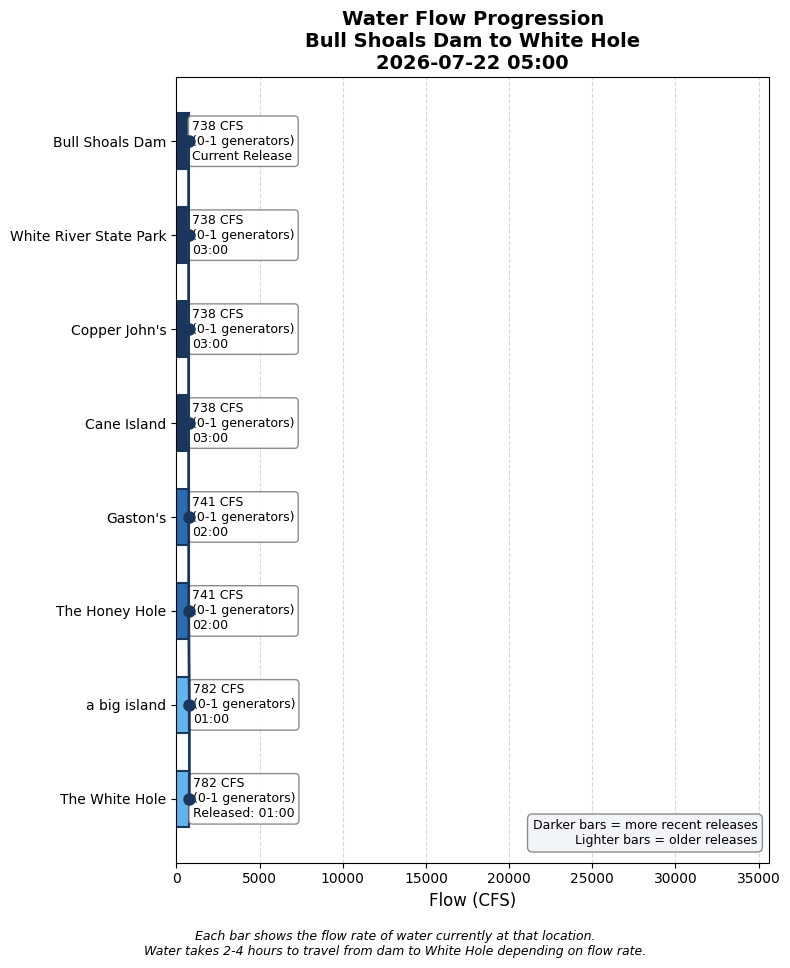
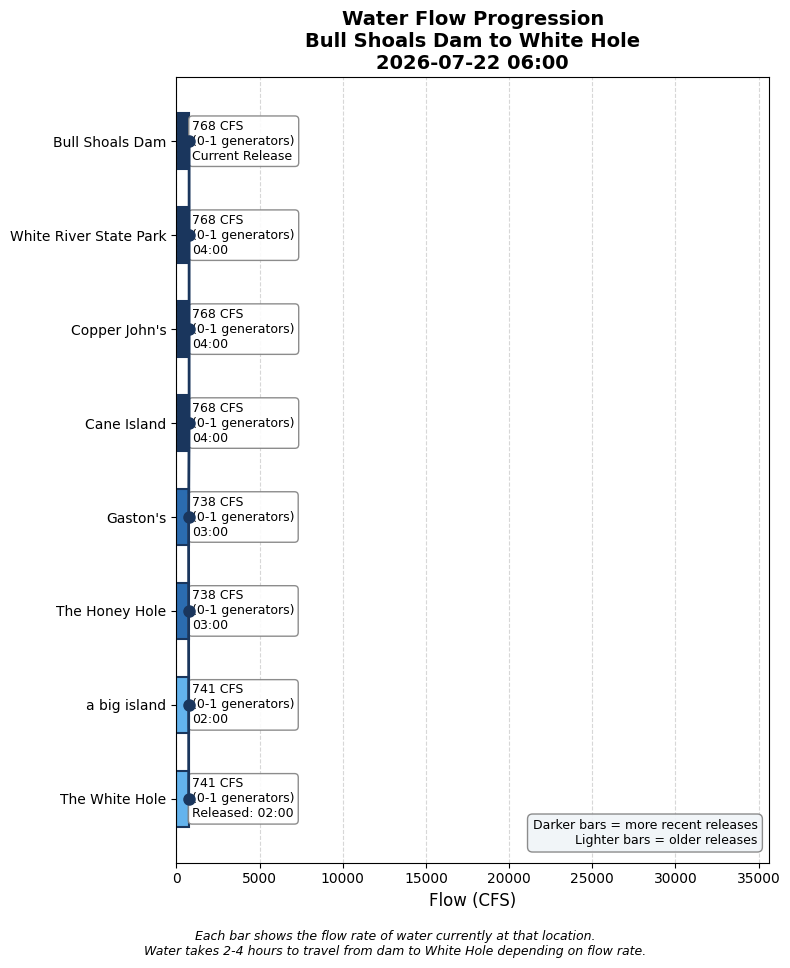
Update water conditions 2026-07-22 06:00

diff --git a/white_hole_conditions.html b/white_hole_conditions.html
@@ -3,7 +3,7 @@
 <head>
     <meta charset="UTF-8">
     <meta name="viewport" content="width=device-width, initial-scale=1.0">
-    <title>White Hole Conditions - 2026-07-22 05:00</title>
+    <title>White Hole Conditions - 2026-07-22 06:00</title>
     <style>
         body {
             font-family: -apple-system, BlinkMacSystemFont, 'Segoe UI', Roboto, sans-serif;
@@ -148,7 +148,7 @@
 </head>
 <body>
     <h1>White Hole Current Conditions</h1>
-    <p class="subtitle">Wednesday, July 22, 2026 at 05:00 AM</p>
+    <p class="subtitle">Wednesday, July 22, 2026 at 06:00 AM</p>
 
     <!-- HEADLINE BANNER -->
     <div class="headline-banner">
@@ -160,7 +160,7 @@
     <!-- CURRENT CONDITIONS -->
     <div class="current-conditions">
         <h3>Current Conditions at White Hole</h3>
-        <div class="flow-display">782 CFS</div>
+        <div class="flow-display">741 CFS</div>
         <div class="generator-display">Equivalent to 0-1 generators</div>
         <div class="condition-pills">
             <span class="pill wading">Excellent Wading</span>
@@ -189,6 +189,14 @@
                 <tr><td colspan="3" style="padding: 8px 10px; font-size: 0.8em; font-weight: bold; color: #6b46c1; text-transform: uppercase; letter-spacing: 0.05em; background-color: #f3e8ff;">Scheduled (SWPA forecast)</td></tr>
                 
                     <tr style="background-color: #faf5ff; ">
+                        <td style="padding: 10px; font-weight: bold;">9 AM</td>
+                        <td style="padding: 10px;">2,613 CFS<br><small style="color: #666;">(0-1 generators: 2363 generation + 250 min flow)</small></td>
+                        <td style="padding: 10px;">~12:44 PM
+                            <span style="display: inline-block; margin-left: 6px; padding: 2px 8px; border-radius: 12px; font-size: 0.8em; background-color: #fef3c7; color: #92400e;">Still Wadable</span>
+                        </td>
+                    </tr>
+                
+                    <tr style="background-color: #faf5ff; ">
                         <td style="padding: 10px; font-weight: bold;">8 AM</td>
                         <td style="padding: 10px;">2,613 CFS<br><small style="color: #666;">(0-1 generators: 2363 generation + 250 min flow)</small></td>
                         <td style="padding: 10px;">~11:44 AM
@@ -212,39 +220,31 @@
                         </td>
                     </tr>
                 
-                    <tr style="background-color: #faf5ff; ">
-                        <td style="padding: 10px; font-weight: bold;">5 AM</td>
-                        <td style="padding: 10px;">723 CFS<br><small style="color: #666;">(0-1 generators: 473 generation + 250 min flow)</small></td>
-                        <td style="padding: 10px;">~8:44 AM
-                            <span style="display: inline-block; margin-left: 6px; padding: 2px 8px; border-radius: 12px; font-size: 0.8em; background-color: #d1fae5; color: #065f46;">Excellent Wading</span>
-                        </td>
-                    </tr>
-                
             
                     
                 <tr><td colspan="3" style="padding: 8px 10px; font-size: 0.8em; font-weight: bold; color: #2b6cb0; text-transform: uppercase; letter-spacing: 0.05em; background-color: #ebf8ff;">Actual (dam readings)</td></tr>
                 
                     <tr style="background-color: #ebf8ff;">
-                        <td style="padding: 10px; font-weight: bold;">3:00 AM</td>
-                        <td style="padding: 10px;">738 CFS<br><small style="color: #666;">(0-1 generators)</small></td>
-                        <td style="padding: 10px;"><span style="color: #2b6cb0;">→ Arrives ~6:44 AM (in 103 min)</span></td>
+                        <td style="padding: 10px; font-weight: bold;">4:00 AM</td>
+                        <td style="padding: 10px;">768 CFS<br><small style="color: #666;">(0-1 generators)</small></td>
+                        <td style="padding: 10px;"><span style="color: #2b6cb0;">→ Arrives ~7:44 AM (in 103 min)</span></td>
                     </tr>
                 
                     <tr style="background-color: #ebf8ff;">
-                        <td style="padding: 10px; font-weight: bold;">2:00 AM</td>
-                        <td style="padding: 10px;">741 CFS<br><small style="color: #666;">(0-1 generators)</small></td>
-                        <td style="padding: 10px;"><span style="color: #2b6cb0;">→ Arrives ~5:44 AM (in 43 min)</span></td>
+                        <td style="padding: 10px; font-weight: bold;">3:00 AM</td>
+                        <td style="padding: 10px;">738 CFS<br><small style="color: #666;">(0-1 generators)</small></td>
+                        <td style="padding: 10px;"><span style="color: #2b6cb0;">→ Arrives ~6:44 AM (in 43 min)</span></td>
                     </tr>
                 
                     <tr style="background-color: #e6fffa;">
-                        <td style="padding: 10px; font-weight: bold;">1:00 AM</td>
-                        <td style="padding: 10px;">782 CFS<br><small style="color: #666;">(0-1 generators)</small></td>
+                        <td style="padding: 10px; font-weight: bold;">2:00 AM</td>
+                        <td style="padding: 10px;">741 CFS<br><small style="color: #666;">(0-1 generators)</small></td>
                         <td style="padding: 10px;"><span style="color: #319795; font-weight: bold;">← AT WHITE HOLE NOW</span></td>
                     </tr>
                 
                     <tr style="">
-                        <td style="padding: 10px; font-weight: bold;">9:00 PM</td>
-                        <td style="padding: 10px;">8,807 CFS<br><small style="color: #666;">(2-3 generators)</small></td>
+                        <td style="padding: 10px; font-weight: bold;">10:00 PM</td>
+                        <td style="padding: 10px;">3,114 CFS<br><small style="color: #666;">(0-1 generators)</small></td>
                         <td style="padding: 10px;"><span style="color: #718096;">passed</span></td>
                     </tr>
                 
@@ -274,9 +274,9 @@
         </summary>
         <div style="padding: 15px;">
             <ul>
-                <li>Latest dam reading: 738 CFS at 2026-07-22 03:00</li>
+                <li>Latest dam reading: 768 CFS at 2026-07-22 04:00</li>
                 <li>Travel time to White Hole: 3.7 hours at current flow</li>
-                <li>White Hole conditions based on dam reading from: 2026-07-22 01:00</li>
+                <li>White Hole conditions based on dam reading from: 2026-07-22 02:00</li>
             </ul>
         </div>
     </details>
@@ -298,6 +298,13 @@
                     </thead>
                     <tbody>
                         
+                <tr style="border-bottom: 1px solid #eee;">
+                    <td style="padding: 8px;">2026-07-22 04:00</td>
+                    <td style="padding: 8px; text-align: right;">768</td>
+                    <td style="padding: 8px; text-align: right;">0.2</td>
+                    <td style="padding: 8px; text-align: right;">3.7</td>
+                </tr>
+                
                 <tr style="border-bottom: 1px solid #eee;">
                     <td style="padding: 8px;">2026-07-22 03:00</td>
                     <td style="padding: 8px; text-align: right;">738</td>
@@ -354,13 +361,6 @@
                     <td style="padding: 8px; text-align: right;">2.2</td>
                 </tr>
                 
-                <tr style="border-bottom: 1px solid #eee;">
-                    <td style="padding: 8px;">2026-07-21 18:00</td>
-                    <td style="padding: 8px; text-align: right;">18471</td>
-                    <td style="padding: 8px; text-align: right;">5.6</td>
-                    <td style="padding: 8px; text-align: right;">2.1</td>
-                </tr>
-                
                     </tbody>
                 </table>
             </div>
@@ -368,7 +368,7 @@
         
 
     <div class="timestamp">
-        Data retrieved and processed on 2026-07-22 05:00:08
+        Data retrieved and processed on 2026-07-22 06:00:08
     </div>
 </body>
 </html>
